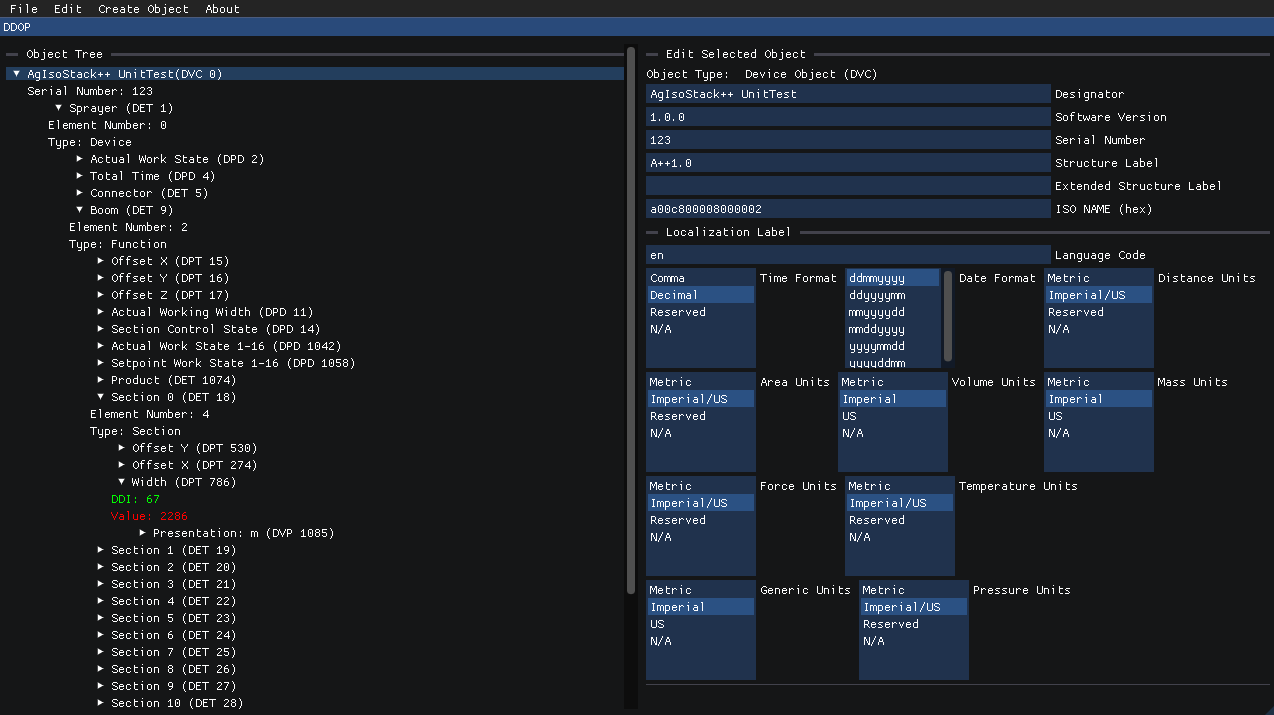
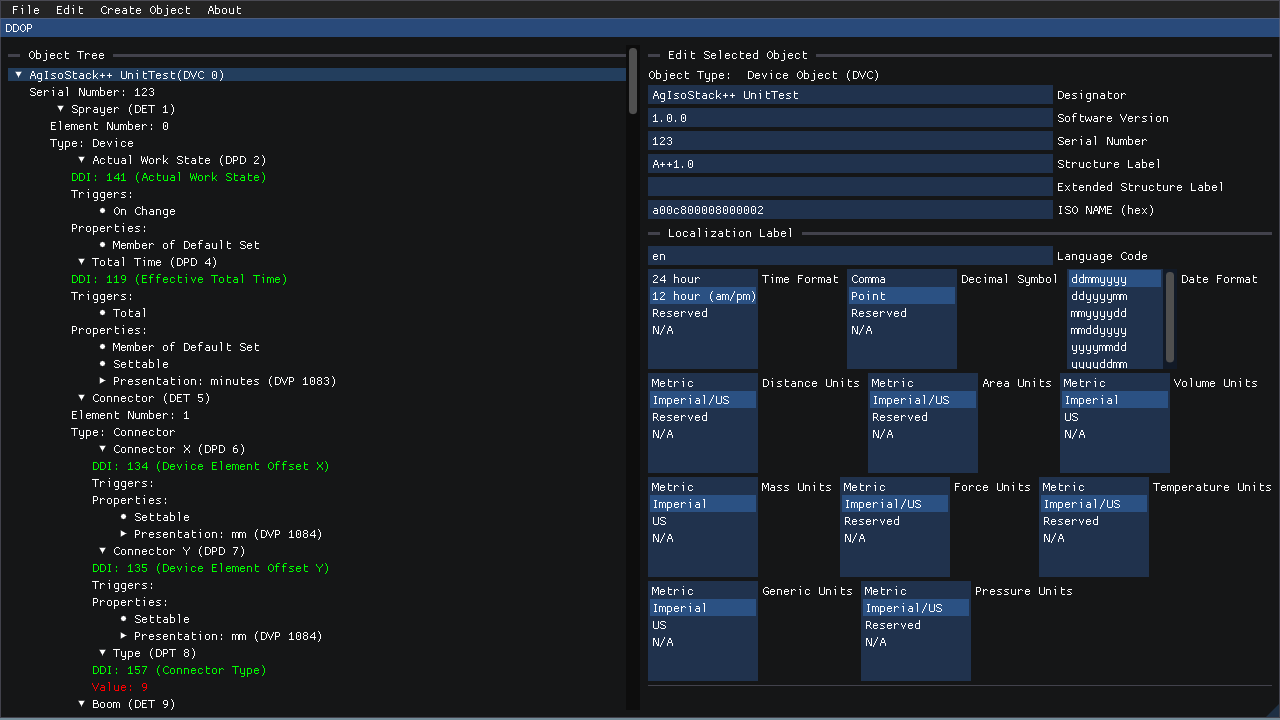
Refresh the README for current main and document TC version 3 vs 4 (#36)

diff --git a/README.md b/README.md
@@ -4,7 +4,7 @@
 
 This program allows you to create, save, load, and edit ISO11783 device descriptor object pools (DDOP) for use with communicating with an ISOBUS task controller.
 
-It is written in C++ and is based on the DDOP objects from [AgIsoStack++](https://github.com/Open-Agriculture/AgIsoStack-plus-plus), with a simple GUI created with [Dear ImGui](https://github.com/ocornut/imgui) running on OpenGL3.
+It is written in C++ and is based on the DDOP objects from [AgIsoStack++](https://github.com/Open-Agriculture/AgIsoStack-plus-plus), with a simple GUI created with [Dear ImGui](https://github.com/ocornut/imgui) on SDL2 and OpenGL 3.
 
 When used in combination with AgIsoStack (or any other TC client), it provides an easy way to visualize your DDOP, build a binary version of it, and easily deserialize it back into C++ objects if you want to interact with a DDOP in your own application.
 
@@ -16,7 +16,32 @@ When used in combination with AgIsoStack (or any other TC client), it provides a
 * Compatible with both TC version 3 and 4
 * Basic object pool error checking to help you find errors before loading onto a TC
 * Saves DDOPs as `.ddop` by default and still opens `.iop` DDOPs from 1.2.0 and earlier (the extension is a convention; ISO 11783 only defines the binary layout)
+* Exports the same pool as an ISOXML `TASKDATA.XML`
+* Looks each DDI up in the ISO 11783-11 data dictionary and shows its name next to the number
 * Completely free and open source alternative to many paid products!
+
+### Using it
+
+**File → New** starts an empty DDOP and asks for your device information; **File → Open** loads an existing one. `EXAMPLE.ddop` and `EXAMPLE_V4.ddop` in this repository are there to open and poke at.
+
+The left pane is the object tree, and whatever you select in it is edited in the right pane. **Create Object** adds a device element, process data, property or value presentation, and a device element gains children by referencing objects that already exist.
+
+**Edit → Check for Errors** serializes the pool and reports what a task controller would reject, including device elements that share an element number. **File → Save** writes the binary DDOP, and **File → Export as ISOXML** writes the same pool as a TASKDATA.XML.
+
+### TC version 3 or 4
+
+A DDOP file does not record which task controller version it was built for. **File → Open** asks which version to read it as, and **Save As** asks which version to write.
+
+Both versions encode every object the same way, except the device object:
+
+|  | Version 3 | Version 4 |
+|---|---|---|
+| Device object | ends after the localization label | adds an extended structure label (up to 32 bytes) |
+| Designators | up to 32 bytes | up to 128 bytes |
+
+ISO 11783-10 caps a designator at 32 characters in either version, and this editor enforces neither limit. Saving at version 3 does not shorten a designator you typed while editing at version 4, so keep them short yourself. If a file will not open at the version you picked, open it again at the other one.
+
+Save at version 3 unless every TC you target is version 4. AgIsoStack lowers the version to match the server only when your client hands it the deserialized pool object; a client that uploads the saved bytes sends them unchanged, and a version 3 TC does not expect the extra device object bytes.
 
 ### Releases
 
@@ -44,7 +69,7 @@ Make sure you have all the dependencies installed.
 sudo apt install cmake build-essential libgl1-mesa-dev libxext-dev
 ```
 
-Clone the repo:
+Clone the repo. The submodules are not optional - if you already cloned without them, run `git submodule update --init --recursive`:
 
 ```
 git clone https://github.com/Open-Agriculture/AgIsoDDOPGenerator.git --recurse-submodules
@@ -57,3 +82,13 @@ cd AgIsoDDOPGenerator
 cmake -S . -B build
 cmake --build build
 ```
+
+Then run `./build/AgIsoDDOPGenerator`.
+
+### Community
+
+Bug reports and feature requests belong in [Issues](https://github.com/Open-Agriculture/AgIsoDDOPGenerator/issues). For everything else, the Open-Agriculture community is on [Discord](https://discord.gg/uU2XMVUD4b) and [Telegram](https://t.me/+kzd4-9Je5bo1ZDg6).
+
+### License
+
+MIT, see [LICENSE](LICENSE). Contributions are welcome under the [code of conduct](CODE_OF_CONDUCT.md).
